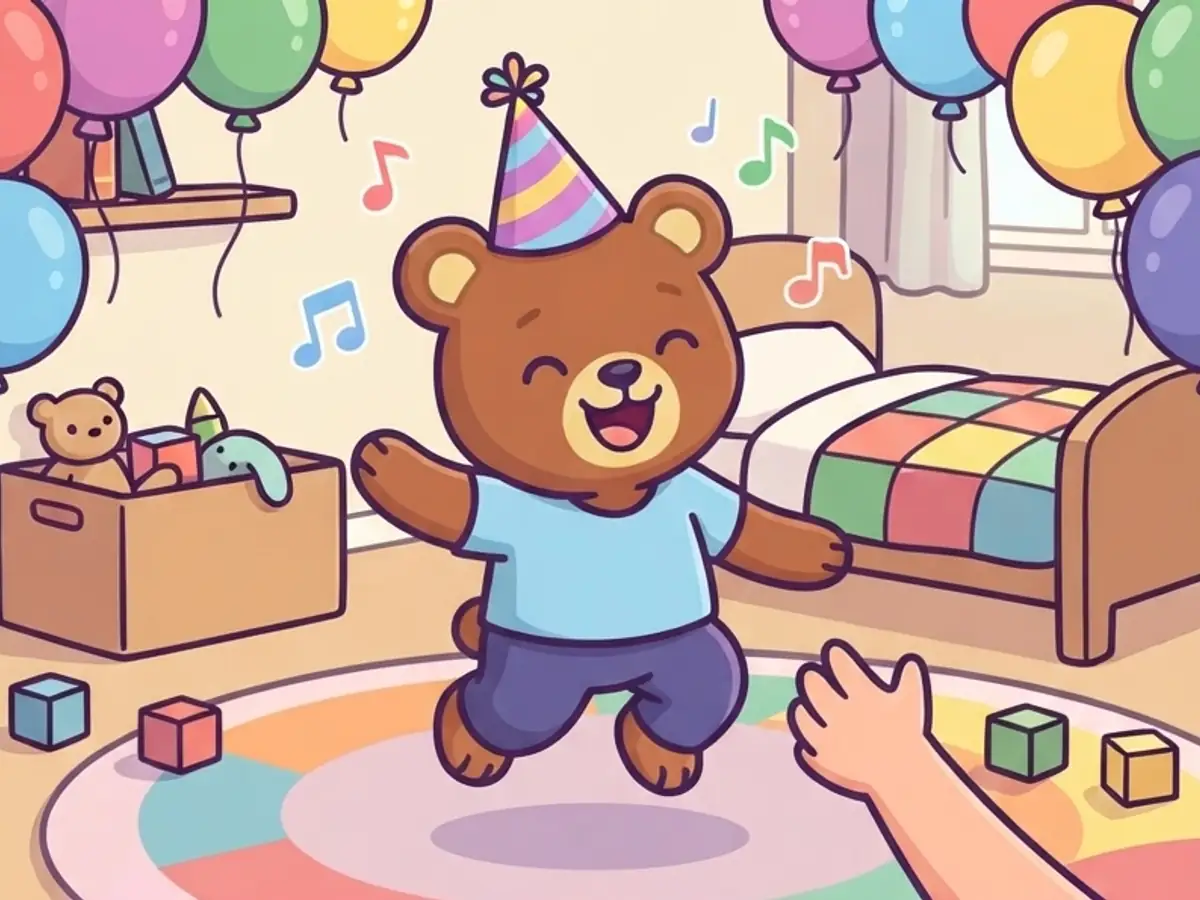
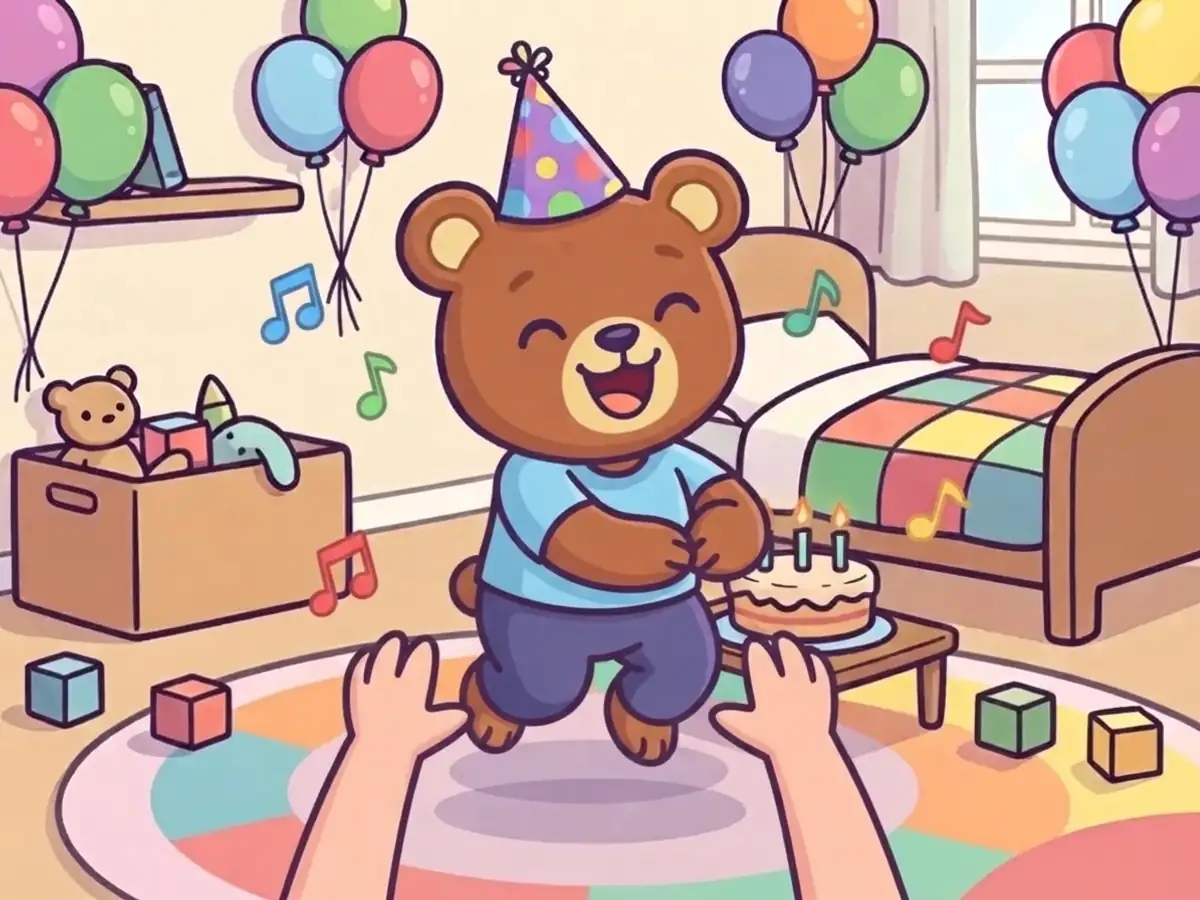
Gefühle: the birthday room stays the same in every picture, balloons and cake included

diff --git a/src/games/feelings/bilder/README.md b/src/games/feelings/bilder/README.md
@@ -16,17 +16,22 @@ Mit Gemini direkt aus dem Projekt (Key in `GEMINI_API_KEY`, Modell Nano Banana 2
 yarn image src/games/feelings/bilder/push-1.webp "<Stilblock> <Figuren> <Prompt>" --aspect 4:3 --size 1200x900 --quality 65 --ref src/games/feelings/bilder/push-2.webp
 ```
 
-Neues bewegtes Bild: beide Frames in einem Auftrag (zum halben Preis pro Frame, und sie passen besser zusammen):
+Neues bewegtes Bild: erst den ersten Frame allein, dann den zweiten mit dem ersten als Referenz,
+in dem nur die Bewegung beschrieben ist. Nicht beide als `--grid 1x2` in einem Auftrag: dort zeichnet
+Gemini die Szene zweimal, Kamera, Kinder, Luftballons oder ein Tisch springen, und beim Überblenden wird
+es unruhig, man kann der Geschichte kaum folgen.
 
 ```
-yarn image src/games/feelings/bilder/push-1.webp,src/games/feelings/bilder/push-1-b.webp "<Stilblock> <Figuren> The two panels are two frames of a tiny animation: same scene, framing, sizes and colours; only the small movement differs." --grid 1x2 --aspect 4:3 --size 1200x900 --quality 65 --panel "<Bild>" --panel "Exactly the same as panel 1, but <Bewegung>"
+yarn image src/games/feelings/bilder/push-1-b.webp "Redraw this exact picture as the second frame of a tiny two-frame animation. Keep EVERYTHING identical: same characters at exactly the same places and sizes, same clothes, colours, background, every object where it is, same camera framing (no zoom, no shift), same composition and line style. Nothing appears, disappears or moves except this small movement: <Bewegung>. No text, no letters." --ref src/games/feelings/bilder/push-1.webp --aspect 4:3 --size 1200x900 --quality 65
 ```
 
-Zweiter Frame zu einem Bild, das es schon gibt: das erste Bild als Referenz mitgeben und nur die Bewegung beschreiben:
+Danach `yarn frames` (oder `yarn frames <datei-b.webp>`): listet Paare, bei denen mehr als die Bewegung
+anders ist, vor allem am Rand, wo fast immer Hintergrund ist. `baer-scared` darf auffallen – dort blitzt es.
 
-```
-yarn image src/games/feelings/bilder/push-1-b.webp "Redraw this exact picture as the second frame of a tiny two-frame animation. Keep EVERYTHING identical: same characters, clothes, colours, background, camera framing, composition, line style and sizes. Change only this small movement: <Bewegung>. No text, no letters." --ref src/games/feelings/bilder/push-1.webp --aspect 4:3 --size 1200x900 --quality 65
-```
+**Dieselbe Szene bleibt dieselbe:** Spielt eine Geschichte an einem Ort, bleiben Raum und Dinge von Bild zu
+Bild gleich (Luftballons, Tisch mit Kuchen, Baum). Darum das erste Bild der Szene als einzige Referenz
+mitgeben und nur ändern, was der Bär tut („Redraw this exact picture … Change only what happens: …“).
+Eine Referenz für den Raum und eine zweite für die Pose verwechselt das Lite-Modell und erfindet den Raum neu.
 
 ## So bleiben die Figuren gleich
 
@@ -172,8 +177,8 @@ visible, but gentle – no injuries, no blood. Use the reference only for the ch
 In den vier Geschichten unten haben diese Bilder nur einen Frame, weil im zweiten die Szene
 sprang statt sich nur ein wenig zu bewegen: `bye-passiert`, `bye-3`, `bye-nein`,
 `new-passiert`, `new-nein`, `new-ende`, `fall-3`, `fall-ende`, `stop-1`, `stop-nein`.
-Ein Paar aus `--grid 1x2` darum vor dem Einbauen nebeneinander ansehen; Streifen
-der Trennfarbe am Rand beider Frames gleich wegschneiden, damit sie deckungsgleich bleiben.
+Die übrigen zweiten Frames dieser Geschichten waren als `--grid 1x2` entstanden und sprangen auch; sie sind
+neu mit dem ersten Frame als Referenz gezeichnet (siehe oben, `yarn frames`).
 
 ### Abschied an der Tür (`bye`) – Eingang mit Garderobe, Tür und Fenster
 
